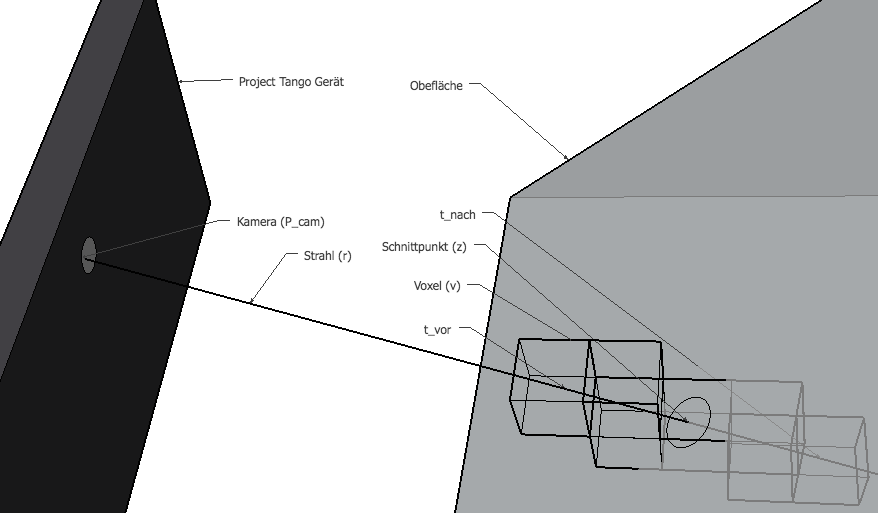
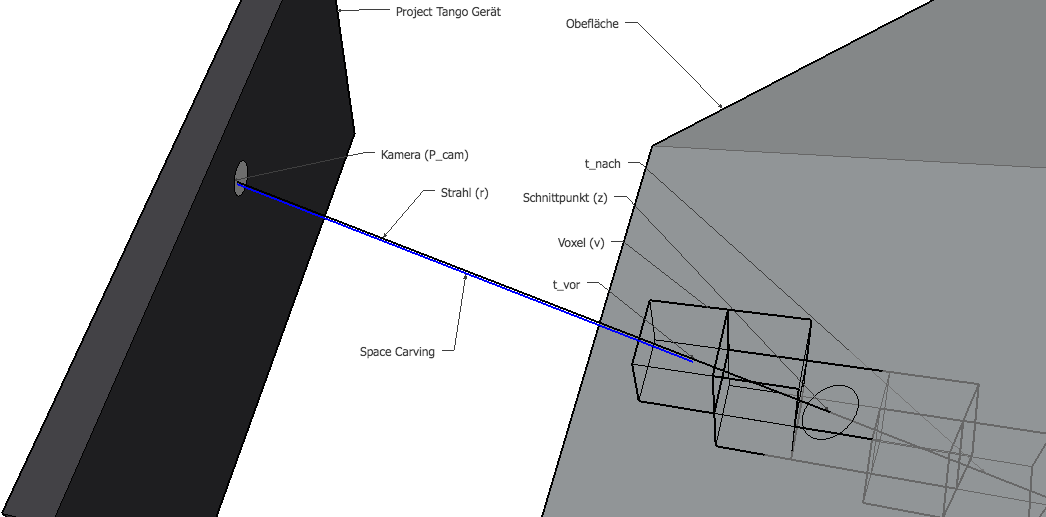
update TSDF part with some small fixes

diff --git a/content/optimization/polygon_reconstruction.tex b/content/optimization/polygon_reconstruction.tex
@@ -9,16 +9,16 @@ augmented reality (AR) where real-world geometry can be fused
 with 3D graphics and rendered live to the user; ...} \citep{niessner2013real}
 \end{quote}
 
-Die Herausforderung in der Echtzeitrekonstruktion liegt dabei in der möglichst performanten Fusion von mehreren überlagernden Tiefenbildern, welche aus verschiedenen Betrachtungswinkeln aufgenommen werden. Hieraus soll eine möglichst detailierte Repräsentation der echten Umgebung generiert werden, welche sich im Idealfall stetig verbessert. Diese Problemstellung unterscheidet sich dabei von herkömmlichen Rekonstruktionsverfahren wie die von \citet{hoppe1992surface} und der Poission Rekonstruktion von \citet{kazhdan2006poisson}. Aktuelle Verfahren nutzen verschiedenste optimierte Datenstrukturen, welche zudem durch den Einsatz von entsprechenden GPU Implementierungen beschleunigt werden können. Dennoch spielt die Gegenüberstellung von Detailgrad, der Skalierung und Geschwindigkeit stets eine große Rolle. \citep{niessner2013real} 
+Die Herausforderung in der Echtzeitrekonstruktion liegt dabei in der möglichst performanten Fusion von mehreren überlagernden Tiefenbildern, welche aus verschiedenen Betrachtungswinkeln aufgenommen werden. Hieraus soll eine möglichst detailierte Repräsentation der echten Umgebung generiert werden, welche sich im Idealfall stetig verbessert. Diese Problemstellung unterscheidet sich dabei von herkömmlichen Rekonstruktionsverfahren wie die von \citet{hoppe1992surface} und der Poission Rekonstruktion von \citet{kazhdan2006poisson}. Aktuelle Verfahren nutzen verschiedenste optimierte Datenstrukturen, welche zudem durch den Einsatz von entsprechenden GPU Implementierungen beschleunigt und in Echtzeit angewendet werden können. Hier spielt die Gegenüberstellung von Detailgrad, der Skalierung und Geschwindigkeit stets eine große Rolle. \citep{niessner2013real} 
 
 Bekannte Verfahren wie KinectFusion \citep{newcombe2011kinectfusion}, ein SLAM Verfahren von \citet{bylow2013real} oder DynamicFusion \citep{newcombe2015dynamicfusion} nutzen die \enquote{Truncated Signed Distance Function}, kurz TSDF, zur Speicherung und Migration der Oberflächeninformation mehrerer Depth Maps. Das Verfahren von \citet{niessner2013real} erweitert diesen Ansatz mit einem effizienten Spatial Hashing Verfahren, um die Zugriffszeiten und Speicherverbrauch zu minimieren. Darüber hinaus nimmt das Verfahren Chisel von \citep{Klingensmith_2015_7924} diese Vorzüge auf und kombiniert TSDF mit \enquote{visual-inertial odometry}, der Trackingtechnologie von Project Tango. In den folgenden Absätzen werden die Mechanismen hinter TSDF, dem räumlichen Hashing und den Vorzügen von Chisel näher erläutert. Außerdem soll auch noch auf das Rendering der TSDF Oberfläche durch Marching Cubes eingegangen werden, welches in Chisel verwendet wird. 
 
 
 \subsection{Truncated Signed Distance Function}
 
-Bei der von \citet{curless1996volumetric} vorgestellten räumlichen Repräsentation von Oberflächen, Truncated Signed Distance Function (TSDF), wird der Raum in Voxel einer gewünschten Auflösung unterteilt. Anders als Occupancy Maps, in denen die Voxel als sichtbar oder unsichtbar markiert werden, werden bei TSDF in den Voxeln die jeweiligen Entfernungen zur nächsten Oberfläche angegeben. Wichtig dabei ist das Vorzeichen, welches angibt, ob sich ein Voxel innerhalb oder außerhalb eines Objektes befindet. Abbildung \ref{fig:tsdf} zeigt unter a) die Ergebnisse mit Occupancy Maps und in b) die Voxel von TSDF. \citep{curless1996volumetric} 
+Bei der von \citet{curless1996volumetric} vorgestellten räumlichen Repräsentation von Oberflächen, Truncated Signed Distance Function (TSDF), wird der Raum in Voxel einer gewünschten Auflösung unterteilt. Anders als bei Occupancy Maps, in denen die Voxel als sichtbar oder unsichtbar binär markiert werden, werden bei TSDF in den Voxeln die jeweiligen Entfernungen zur nächst gelegenen Oberfläche angegeben. Wichtig dabei ist das Vorzeichen, welches angibt, ob sich ein Voxel innerhalb oder außerhalb eines Objektes befindet. Abbildung \ref{fig:tsdf} zeigt unter a) die Ergebnisse mit Occupancy Maps und in b) die Voxel von TSDF. \citep{curless1996volumetric} 
 
-Gefüllt wird die Repräsentation durch die Depth Maps und der entsprechenden Kameraposition, die im Fall von Project Tango bereits gegeben ist. So wird für jede Tiefeninformation ein Strahl ausgehend von der Kameraposition generiert, der die durchgeschnittenen Voxel aktualisiert. Der Stahl ist dabei von der Länge begrenzt, um die zu aktualisierenden Voxel zu minimieren und zudem keine Oberflächen zu aktualisieren, die sich weiter hinter der gefundenen Oberfläche befindet. Dieses Vorgehen ist in Abbildung \ref{fig:tsdf} c) zu erkennen. \citep{Compu66:online} 
+Gefüllt wird die Repräsentation durch die Depth Maps und der entsprechenden Kameraposition, die im Fall von Project Tango durch Motion Tracking bereits gegeben ist. So wird für jede Tiefeninformation ein Strahl ausgehend von der Kameraposition generiert, der die durchgeschnittenen Voxel aktualisiert. Der Stahl ist dabei von der Länge begrenzt, um die zu aktualisierenden Voxel klein zu halten und zudem keine Oberflächen zu aktualisieren, die sich weiter hinter der gefundenen Oberfläche befindet. Dieses Vorgehen ist in Abbildung \ref{fig:tsdf} c) zu erkennen. \citep{Compu66:online} 
 
 \begin{figure}
   \centering
@@ -29,11 +29,11 @@ Gefüllt wird die Repräsentation durch die Depth Maps und der entsprechenden Ka
 
 Der Vorteil dieser Repräsentation liegt darin, dass die konkreten Oberflächeninformationen, anders als bei der Diskretisierung von Occupancy Maps, nicht verloren gehen. Das heißt, dass trotz einer gröberen Voxel Struktur stets der Nulldurchgang rekonstruiert werden kann. Neben der Entfernung zur nächsten Oberfläche wird zusätzlich noch ein Gewichtungswert in jedem Voxel gespeichert. Das ermöglicht es leichtes Rauschen durch eine einfache Mittelung mehrerer Messerergebnisse der Oberfläche zu unterdrücken. Außerdem kann somit eine stetige Optimierung der Oberfläche vorgenommen werden. \citep{Compu66:online}
 
-\citet{hoppe1992surface} nutzen in Ihrem Rekonstruktionsverfahren auch die hier beschriebene TSDF. Jedoch bestimmen sie für jeden festgehaltenen Punkt der Pointcloud die umliegenden Nachbarn, um eine Tangentialebene zu ermitteln, von der aus die auf der Normalen liegenden Voxel mit der entsprechenden Distanz aktualisiert werden. Für die Echtzeitrekonstruktion ist dieses Vorgehen jedoch zu aufwändig. Hier werden die Voxel nicht anhand der exakten euklidischen Distanz aktualisiert, sondern es wird mit Hilfe des Raycastings, ausgehend von der Tiefenkamera, eine projizierte Distanz als Approximation verwendet. \citep{Compu66:online}
+\citet{hoppe1992surface} nutzen in Ihrem offline Rekonstruktionsverfahren auch die hier beschriebene TSDF. Jedoch bestimmen sie für jeden festgehaltenen Punkt der Pointcloud die umliegenden Nachbarn, um eine Tangentialebene zu ermitteln, von der aus die auf der Normalen liegenden Voxel mit der entsprechenden Distanz aktualisiert werden. Für die Echtzeitrekonstruktion ist dieses Vorgehen jedoch zu aufwändig. Hier werden die Voxel nicht anhand der exakten euklidischen Distanz aktualisiert, sondern es wird mithilfe des Raycastings, ausgehend von der Tiefenkamera, eine projizierte Distanz als Approximation verwendet. \citep{Compu66:online} Später bei der detaillierten Beschreibung von Chisel (Kapitel \ref{sec:chisel}) wird das Vorgehen auch nochmal Grafisch in Abbildung \ref{fig:tsdf-sketch} erläutert.
 
 \subsection{Spatial Hashing}
 
-Das Problem der Echtzeit Rekonstruktion ist wie bereits angesprochen der Kompromiss zwischen dem Detailgrad, der Skalierung der zu rekonstruierenden Szene und der Performance der Rekonstruktion. Auch die TSDF Repräsentation ist sehr speicherintensiv und benötigt für die zu scannende Szene reservierten Speicher, der auf mobilen Endgeräten nur begrenzt verfügbar ist. Daher muss auch für größere Rekonstruktionen oder Rekonstruktionen unbekannter Größe ein dynamischer Ansatz gefunden werden. \citet{Klingensmith_2015_7924} erwähnt dazu, dass einige Verfahren Octrees einsetzen, die zwar äußerst dynamisch sind, jedoch einen deutlichen Nachteil hinsichtlich der Zugriffszeiten auf die Voxel bergen. 
+Das Problem der Echtzeitrekonstruktion ist wie bereits angesprochen der Kompromiss zwischen dem Detailgrad, der Skalierung der zu rekonstruierenden Szene und der Performance der Rekonstruktion. Auch die TSDF-Repräsentation ist sehr speicherintensiv und benötigt für die zu scannende Szene reservierten Speicher, der auf mobilen Endgeräten nur begrenzt verfügbar ist. Daher muss auch für größere Rekonstruktionen oder Rekonstruktionen unbekannter Größe ein dynamischer Ansatz gefunden werden. \citet{Klingensmith_2015_7924} erwähnt dazu, dass einige Verfahren Octrees einsetzen, die zwar äußerst dynamisch sind, jedoch einen deutlichen Nachteil hinsichtlich der Zugriffszeiten auf die Voxel bergen. 
 
 \begin{figure}[h]
   \centering
@@ -42,7 +42,7 @@ Das Problem der Echtzeit Rekonstruktion ist wie bereits angesprochen der Komprom
   \label{fig:hashing}
 \end{figure}
 
-\citet{niessner2013real} führen daher eine zwei-Ebenen Struktur ein, die auf der zweiten Ebene eine Menge von Voxel räumlich zusammenfassen. Diese werden hier Chunks genannt. Auf der ersten Ebene können diese Chunks in einer Hash Tabelle räumlich mit einer Hashfunktion identifiziert werden. Das ermöglicht somit einen nahezu direkten Zugriff auf räumliche Voxel und ermöglicht es zudem Chunks dynamisch zu allokieren. Als Hash der Chunkposition \(x\), \(y\) und \(z\) wird die folgende Hashfunktion aus Gleichung \ref{eq:spatial_hash} verwendet. Bei den Variablen \(p_1\), \(p_2\) und \(p_3\) handelt es sich um willkürlich hohe Primzahlen und \(n\) entspricht der Größe der Hash Tabelle. Da Kollisionen in der Hash Tabelle nicht vollkommen ausgeschlossen werden können, werden die Chunks gegebenenfalls in einer Hash Tabellen Zuordnung verkettet.
+\citet{niessner2013real} führen daher eine zwei-Ebenen Struktur ein, die auf der zweiten Ebene eine Menge von Voxel räumlich zusammenfassen. Diese werden hier Chunks genannt. Auf der ersten Ebene können diese Chunks in einer Hash Tabelle räumlich mit einer Hashfunktion identifiziert werden. Das ermöglicht somit einen nahezu direkten Zugriff auf räumliche Voxel und bietet zudem Chunks dynamisch zu allokieren. Als Hash der Chunkposition \(x\), \(y\) und \(z\) wird die folgende Hashfunktion aus Gleichung \ref{eq:spatial_hash} verwendet. Bei den Variablen \(p_1\), \(p_2\) und \(p_3\) handelt es sich um willkürlich hohe Primzahlen und \(n\) entspricht der Größe der Hash Tabelle. Da Kollisionen in der Hash Tabelle nicht vollkommen ausgeschlossen werden können, werden die Chunks gegebenenfalls in einer Hash Tabellen Zuordnung verkettet.
 
 \begin{equation}\label{eq:spatial_hash}
 H(x,y,z) = (x * p_1 \oplus y * p_2 \oplus z * p_3) \mod n
@@ -50,7 +50,7 @@ H(x,y,z) = (x * p_1 \oplus y * p_2 \oplus z * p_3) \mod n
 
 \subsection{Marching Cubes}
 
-Die meisten Echtzeit Rekonstruktionen durch TSDF wie KinectFusion sind GPU Umsetzungen, die daher die Möglichkeit besitzen ein hardwarebeschleunigtes Rendering durch Raycasting durchzuführen. Das Verfahren Chisel von \citet{Klingensmith_2015_7924}, welches eine reine CPU Umsetzung ist, nutzt hingegen einen indirekten Weg zum Rendering durch die Marching Cubes Triangulation. 
+Die meisten Echtzeitrekonstruktionen durch TSDF wie KinectFusion sind GPU-Umsetzungen, die daher die Möglichkeit besitzen ein hardwarebeschleunigtes Rendering durch Raycasting durchzuführen. Das Verfahren Chisel von \citet{Klingensmith_2015_7924}, welches eine reine CPU Umsetzung ist, nutzt hingegen einen indirekten Weg zum Rendering durch die Marching Cubes Triangulation. 
 
 \begin{figure}[h]
   \centering
@@ -59,15 +59,15 @@ Die meisten Echtzeit Rekonstruktionen durch TSDF wie KinectFusion sind GPU Umset
   \label{fig:marchingcubes}
 \end{figure}
 
-Marching Cubes nach \citet{lorensen1987marching} ist ein Algorithmus um aus einer, als Voxel repräsentierten, Isofläche Polygone zu bestimmen, die dieser Fläche möglichst nah kommt. Hierzu werden zu jedem Voxel die Ecken \(v1\) bis \(v8\) anhand der Nachbarvoxel und des Distanzwertes untersucht, ob sie innerhalb oder außerhalb eines Objektes liegen. Zusätzlich werden zu jeder Kante auf dem Voxel, wenn ein Schnitt der Isofläche existiert, die Schnittpunkte auf den Kanten \(e1\) bis \(e12\) bestimmt. Abbildung \ref{fig:marchingcubes} a) zeigt die Ecken und Kantenschnittpunkte eines Voxels. 
+Marching Cubes nach \citet{lorensen1987marching} ist ein Algorithmus um aus einer, als Voxel repräsentierten, Isofläche Polygone zu bestimmen, die dieser Fläche möglichst nahe kommt. Hierzu werden zu jedem Voxel die Ecken \(v1\) bis \(v8\) anhand der Nachbarvoxel und des Distanzwertes untersucht, ob sie innerhalb oder außerhalb eines Objektes liegen. Zusätzlich werden zu jeder Kante auf dem Voxel, wenn ein Schnitt der Isofläche existiert, die Schnittpunkte auf den Kanten \(e1\) bis \(e12\) bestimmt. Abbildung \ref{fig:marchingcubes} a) zeigt die Ecken und Kantenschnittpunkte eines Voxels. 
 
 Je nach binärer Gewichtung der Ecken können hiernach aus einem Katalog von 256 Varianten die Polygone nachgeschlagen werden. Inhalt des Katalogs sind die Indizes der Kantenschnittpunkte \(p_{e1}\) bis \(p_{e12}\), aus denen Polygone generiert werden können. Alle diese 256 Varianten können auf 15 verschiedene Fälle zurückgeführt werden, die sich nur in Rotation oder Symmetrie unterscheiden. Die 15 Varianten sind in Abbildung \ref{fig:marchingcubes} b) zu finden. \citep{MarchingCubes:online} 
 
-\subsection{Chisel mit Space Carving}
+\subsection{Chisel mit Space Carving} \label{sec:chisel}
 
-Das bereits erwähnte Verfahren Chisel von \citet{Klingensmith_2015_7924} verwendet alle zuvor erwähnten Techniken der TSDF, spatial Hashing und der Marching Cubes Überführung. Sie sprechen dabei von einem \enquote{dynamic spatial-hashed truncated distance field}. Das für den mobilen Einsatz optimierte Verfahren ist in der Lage eine Echtzeitrekonstruktion von Räumen von bis zu \(300 m^2\) mit einem Detailgrad von zwei bis drei Zentimetern zu erstellen. Zudem können neben Tiefeninformationen auch gefärbte Pointclouds verarbeitet werden, wodurch ein gefärbtes Mesh generiert werden kann. \citep{Klingensmith_2015_7924}
+Das bereits erwähnte Verfahren Chisel von \citet{Klingensmith_2015_7924} verwendet alle zuvor erwähnten Techniken der TSDF, Spatial Hashing und der Marching Cubes Überführung. Sie sprechen dabei von einem \enquote{dynamic spatial-hashed truncated distance field}. Das für den mobilen Einsatz optimierte Verfahren ist in der Lage eine Echtzeitrekonstruktion von Räumen von bis zu \(300 m^2\) mit einem Detailgrad von zwei bis drei Zentimetern zu erstellen. Zudem können neben Tiefeninformationen auch gefärbte Pointclouds verarbeitet werden, wodurch ein gefärbtes Mesh durch Marching Cubes generiert werden kann. Die Farbinformationen sind jedoch auf die Voxel Auflösung des Verfahrens beschränkt. \citep{Klingensmith_2015_7924}
 
-Zusätzlich erweitern sie den TSDF Algorithmus um die \enquote{space carving} Funktionalität. Sie betrachten dabei den Strahl von der Kamera zur Oberfläche als eine Art Constraint, in dem alle durchstoßenden Voxel bis zur Oberfläche eine negativen Wert beinhalten müssen. Ist das nicht der Fall, so wird ein Voxel außerhalb der inneren Begrenzung auf den leeren Ursprungswert gesetzt. Im Pseudocode aus Listing \ref{lst:chisel} sowie in der Abbildung \ref{fig:tsdf-sketch} wird das Verhalten näher erläutert. Diese Verbesserung führt dazu, dass die Rekonstruktion bei stark rauschenden Tiefeninformationen, besonders an Objektkanten, deutlich verbessert wird. Außerdem ist das Verfahren hiermit in der Lage dynamische Änderungen in der Umgebung zu detektieren und neue Oberflächen entsprechend zu aktualisieren. So beeinflussen, als Beispiel, sich im Bild bewegende Personen nur kurz die Voxel der TSDF. \citep{Klingensmith_2015_7924}
+Zusätzlich erweitern sie den TSDF Algorithmus um die \enquote{space carving} Funktionalität. Sie betrachten dabei den Strahl von der Kamera zur Oberfläche als eine Art Bedingung, in der alle durchstoßenden Voxel bis zur Oberfläche eine negativen Wert beinhalten müssen. Ist das nicht der Fall, so wird ein Voxel außerhalb der inneren Begrenzung auf den leeren Ursprungswert gesetzt. Der Pseudocode in Listing \ref{lst:chisel} sowie die Abbildung \ref{fig:tsdf-sketch} erläutern dieses Verhalten. Diese Verbesserung führt dazu, dass die Rekonstruktion bei stark rauschenden Tiefeninformationen, besonders an Objektkanten, deutlich verbessert wird. Außerdem ist das Verfahren hiermit in der Lage dynamische Änderungen in der Umgebung zu detektieren und neue Oberflächen entsprechend zu aktualisieren. So beeinflusst, als Beispiel, sich eine im Bild bewegende Personen nur kurz die Voxel der TSDF. \citep{Klingensmith_2015_7924}
 
 
 \begin{lstlisting}[mathescape,caption=Chisel TSDF Algorithmus, label=lst:chisel, float=htbp]
@@ -95,4 +95,4 @@ für jeden Tiefenwert $\vec{p}$ aus $C$
   \label{fig:tsdf-sketch}
 \end{figure}
 
-Neben space carving wurden zudem eine variable Strahlenbegrenzungen und Gewichtungen der Voxel abhänig von der jeweils aufgenommenen Tiefe implementiert. Diese Funktion berücksichtigt die Varianzen von Messungenauigkeiten des Sensors, die bei größerer Entfernung der Oberfläche zum Tiefensonsor zunehmen können. \citep{Klingensmith_2015_7924}
+Neben space carving wurden zudem eine variable Strahlenbegrenzungen und Gewichtungen der Voxel, abhänig von der jeweils aufgenommenen Tiefe, implementiert. Diese Funktion berücksichtigt die Messungenauigkeiten des Tiefensensors, die bei größerer Entfernung der Oberfläche zum Tiefensonsor zunehmen können. \citep{Klingensmith_2015_7924}
